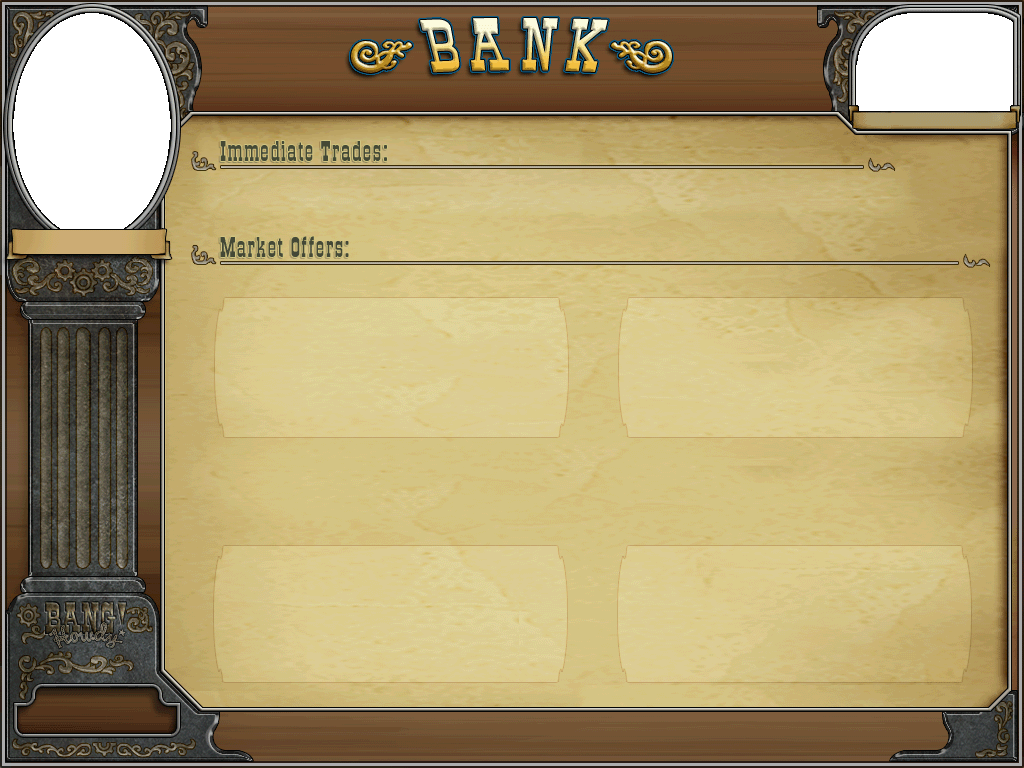
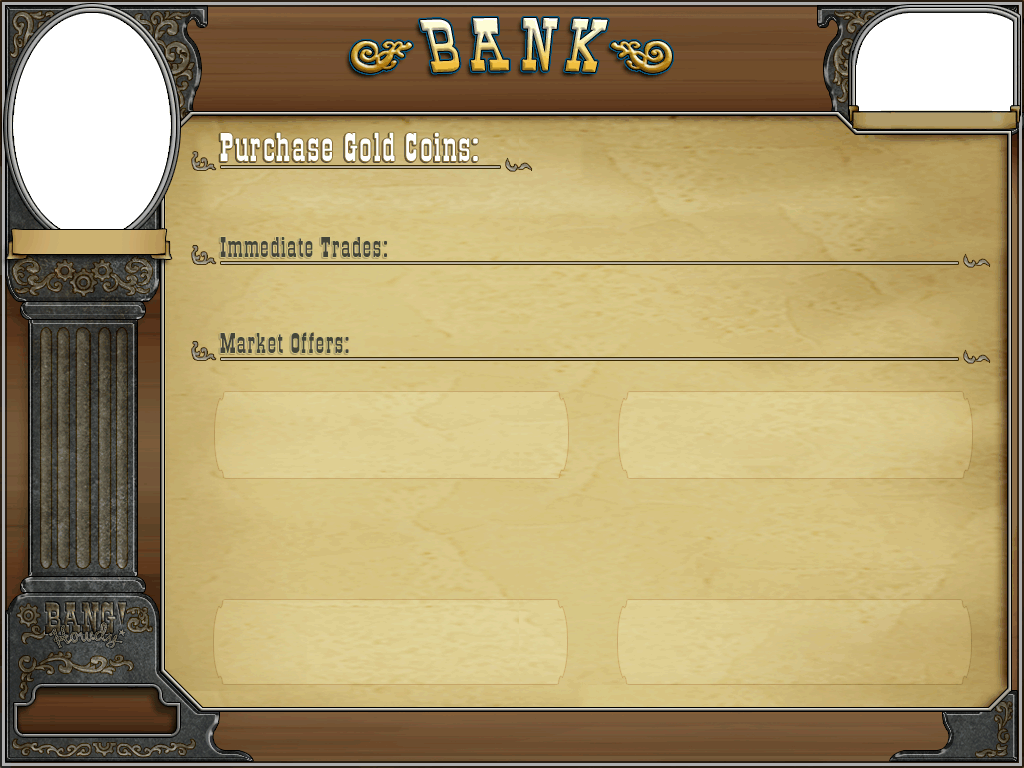
Some adjustments to make room for the info on buying coins with real money.

diff --git a/src/java/com/threerings/bang/bank/client/FullTransact.java b/src/java/com/threerings/bang/bank/client/FullTransact.java
@@ -53,7 +53,7 @@ public class FullTransact extends BContainer
 
         String msg = buying ? "m.buy" : "m.sell";
         add(new BLabel(_msgs.get(msg + "_offers"), "bank_title"),
-            new Point(0, 385));
+            new Point(0, 294));
 
         // add slots for the top four offers
         BContainer offers = new BContainer(new TableLayout(4, 5, 15));
@@ -62,10 +62,10 @@ public class FullTransact extends BContainer
             _offers[ii] = new OfferLabel(offers);
         }
         _offers[0].setNoOffers();
-        add(offers, new Rectangle(12, 245, 310, 135));
+        add(offers, new Rectangle(12, 210, 310, 75));
 
         add(new BLabel(_msgs.get(msg + "_post_offer"), "bank_post_title"),
-            new Point(0, 212));
+            new Point(0, 159));
 
         BContainer moffer = GroupLayout.makeHBox(GroupLayout.LEFT);
         moffer.add(new BLabel(BangUI.coinIcon));
@@ -81,12 +81,12 @@ public class FullTransact extends BContainer
         moffer.add(new Spacer(15, 1));
         moffer.add(_post = new BButton(_msgs.get("m.post"), this, "post"));
         _post.setEnabled(false);
-        add(moffer, new Point(0, 178));
+        add(moffer, new Point(0, 125));
 
         add(new BLabel(_msgs.get("m.your_offers"), "bank_title"),
-            new Point(0, 139));
+            new Point(0, 86));
         _myoffers = new BContainer(new TableLayout(5, 3, 15));
-        add(new BScrollPane(_myoffers), new Rectangle(12, 3, 310, 132));
+        add(new BScrollPane(_myoffers), new Rectangle(12, 0, 310, 82));
     }
 
     public void init (BankObject bankobj)

diff --git a/src/java/com/threerings/bang/bank/client/BankView.java b/src/java/com/threerings/bang/bank/client/BankView.java
@@ -44,14 +44,14 @@ public class BankView extends ShopView
         add(_status, new Rectangle(265, 10, 500, 40));
 
         add(_qsell = new QuickTransact(ctx, _status, false),
-            new Rectangle(225, 555, 320, 30));
+            new Rectangle(225, 463, 320, 30));
         add(_qbuy = new QuickTransact(ctx, _status, true),
-            new Rectangle(620, 555, 320, 30));
+            new Rectangle(620, 463, 320, 30));
 
         add(_fsell = new FullTransact(ctx, _status, false),
-            new Rectangle(225, 85, 330, 410));
+            new Rectangle(225, 85, 330, 315));
         add(_fbuy = new FullTransact(ctx, _status, true),
-            new Rectangle(630, 85, 330, 410));
+            new Rectangle(630, 85, 330, 315));
 
         add(new WalletLabel(ctx, true), new Rectangle(25, 37, 150, 40));
         add(createHelpButton(), new Point(790, 20));

diff --git a/src/java/com/threerings/bang/data/BangCodes.java b/src/java/com/threerings/bang/data/BangCodes.java
@@ -53,7 +53,7 @@ public interface BangCodes extends InvocationCodes
     public static final String CARDS_MSGS = "cards";
 
     /** The number of offers of each type we publish in the coin exchange. */
-    public static final int COINEX_OFFERS_SHOWN = 5;
+    public static final int COINEX_OFFERS_SHOWN = 3;
 
     /** The maximum number of pardners you can have. */
     public static final int MAX_PARDNERS = 75;
